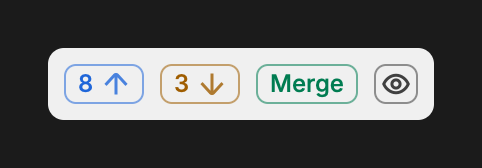
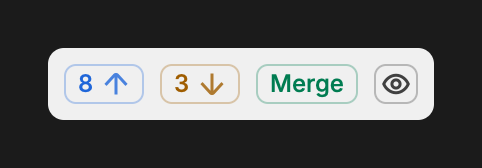
fix(but-ui): keep a dark page's selection edges as they were
A dark page's selected row is filled light, where the edges read fine
at their plain-row strength. Keep the stronger edges for a light page's
dark fill only: coloured outlines at 30% and outline-inverted at 26% on
a light fill, in but-ui-react's Button and but-ui-gpui's theme alike.
The dark shots of the button stories are retaken.

diff --git a/packages/but-ui-react/src/Button.module.css b/packages/but-ui-react/src/Button.module.css
@@ -132,14 +132,18 @@
 	--button-hover-bg: var(--but-hover);
 }
 
-/* The edge is stronger than outline's 26%: a faint light line on the dark fill reads fainter
-   than the same dark line on a light one. */
+/* On a light page's dark inverse the edge is stronger than outline's 26%: a faint light line on
+   a dark fill reads fainter than the same dark line on a light one. A dark page keeps 26%. */
 :where(.outline-inverted) {
 	--button-edge: 1px;
 	--button-border: 1px solid color-mix(in srgb, var(--but-inverse-foreground) 45%, transparent);
 	--button-bg: transparent;
 	--button-fg: var(--but-inverse-foreground);
 	--button-hover-bg: var(--but-inverse-ghost-hover);
+
+	@container style(--scheme-dark: true) {
+		--button-border: 1px solid color-mix(in srgb, var(--but-inverse-foreground) 26%, transparent);
+	}
 }
 
 :where(.danger) {
@@ -172,13 +176,15 @@
 	--button-hover-icon-opacity: 0.9;
 
 	/* Inside a selected row on the solid fill, the opposite scheme keeps the colour: every
-	   light-dark() colour resolves to its inverted value, as Badge and MetaCount do. The edge
-	   goes to 55% there, as outline-inverted's is stronger than outline's. */
+	   light-dark() colour resolves to its inverted value, as Badge and MetaCount do. On a light
+	   page's dark fill the edge goes to 55%, as outline-inverted's is stronger there; a dark
+	   page's light fill keeps 30%. */
 	@container style(--selection-inverted: true) {
 		--button-border: 1px solid color-mix(in srgb, var(--button-fg) 55%, transparent);
 		color-scheme: dark;
 
 		@container style(--scheme-dark: true) {
+			--button-border: 1px solid color-mix(in srgb, var(--button-fg) 30%, transparent);
 			color-scheme: light;
 		}
 	}
@@ -188,13 +194,13 @@
 	--button-fg: var(--but-info-text);
 	--button-hover-bg: var(--but-info-outline-hover);
 
-	/* Blue reads darker than amber and green on the dark solid fill: its edge there is 70%, which
-	   matches theirs at 55%. On the light fill of a dark page all three match at 55%. */
+	/* Blue reads darker than amber and green on a light page's dark solid fill: its edge there is
+	   70%, which matches theirs at 55%. A dark page's light fill keeps 30%. */
 	@container style(--selection-inverted: true) {
 		--button-border: 1px solid color-mix(in srgb, var(--button-fg) 70%, transparent);
 
 		@container style(--scheme-dark: true) {
-			--button-border: 1px solid color-mix(in srgb, var(--button-fg) 55%, transparent);
+			--button-border: 1px solid color-mix(in srgb, var(--button-fg) 30%, transparent);
 		}
 	}
 }

diff --git a/crates/but-ui-gpui/src/theme.rs b/crates/but-ui-gpui/src/theme.rs
@@ -75,9 +75,9 @@ pub struct Derived {
     pub muted_hover: Hsla,
     /// `primary` with 14% of `foreground` in it: a checked box or radio under the pointer.
     pub primary_checked_hover: Hsla,
-    /// `inverse-foreground` at 45%: an outline's edge on a solid selection, as React's
-    /// `outline-inverted`. Stronger than `input`'s 26%, as a faint light edge on a dark fill
-    /// reads fainter than the same dark edge on a light one.
+    /// `inverse-foreground` at 45% on a dark solid selection and 26% on a light one: an
+    /// outline's edge there, as React's `outline-inverted`. Stronger than `input`'s 26% on the
+    /// dark fill only, as a faint light edge on it reads fainter than a dark edge on a light one.
     pub inverse_input: Hsla,
     /// `inverse-muted-foreground` at 40%: a tree's guide on a solid selection, as
     /// but-ui-react's `--guide-color` there.
@@ -164,7 +164,10 @@ impl Derived {
         Derived {
             muted_hover: color(mix(rgb_hex(c.muted), rgb_hex(c.muted_nested), 0.5)),
             primary_checked_hover: primary_checked_hover(c),
-            inverse_input: c.inverse_foreground.opacity(0.45),
+            inverse_input: c.inverse_foreground.opacity(match c.inverse.l < 0.5 {
+                true => 0.45,
+                false => 0.26,
+            }),
             inverse_guide: c.inverse_muted_foreground.opacity(0.4),
             joined_line_on_solid: c.inverse_foreground.opacity(0.08),
             inverse_success_text: on_inverse(c.success_text),
@@ -905,9 +908,9 @@ impl Theme {
     }
 
     /// A coloured outline button's text, edge and hover on a solid selection: its hue in the
-    /// other scheme's values, as but-ui-react's Button flips its scheme there, with the edge at
-    /// 55% rather than 30%, as `inverse_input` is stronger than `input`. Blue reads darker than
-    /// amber and green on a dark fill, so there its edge is 70%, which matches theirs at 55%.
+    /// other scheme's values, as but-ui-react's Button flips its scheme there. On a dark fill
+    /// the edge is 55% rather than 30%, as `inverse_input` is stronger there, and blue's 70%,
+    /// as it reads darker than amber and green and so matches theirs. A light fill keeps 30%.
     /// Only info, success and warning are coloured; anything else takes the inverted ghost's.
     pub fn outline_on_solid(&self, hue: Option<Hue>) -> (Hsla, Hsla, Hsla) {
         let flip = &self.on_solid;
@@ -917,9 +920,10 @@ impl Theme {
             Some(Hue::Safe) => (flip.success_text, flip.success_outline_hover),
             _ => (self.inverse_foreground, self.inverse_ghost_hover),
         };
-        let edge = match hue {
-            Some(Hue::Blue) if self.inverse.l < 0.5 => 0.7,
-            _ => 0.55,
+        let edge = match (hue, self.inverse.l < 0.5) {
+            (_, false) => 0.3,
+            (Some(Hue::Blue), true) => 0.7,
+            (_, true) => 0.55,
         };
         (text, text.opacity(edge), hover)
     }

diff --git a/packages/but-ui/design/components/buttons.md b/packages/but-ui/design/components/buttons.md
@@ -20,11 +20,12 @@ to a quiet one.
 - **`info`, `warning`, `success`** — `outline` in a colour: the colour's text,
   an edge of it at 30%, and under the pointer its faintest see-through tint
   (`--but-*-outline-hover`). For the next step of a coloured count (see
-  [Meta lines](meta-lines.md)). On a selected row's solid fill the edge goes
-  to 55%, as `outline-inverted`'s goes to 45% from `outline`'s 26%: a faint
-  light line on a dark fill reads fainter than the same dark line on a light
-  one. Blue's goes to 70% on the dark fill, where it reads darker than amber
-  and green, so that it matches theirs.
+  [Meta lines](meta-lines.md)). On a light page's selected row, whose solid
+  fill is dark, the edge goes to 55%, as `outline-inverted`'s goes to 45% from
+  `outline`'s 26%: a faint light line on a dark fill reads fainter than the
+  same dark line on a light one. Blue's goes to 70% there, as it reads darker
+  than amber and green, so that it matches theirs. A dark page's selection is
+  light and keeps 30% and 26%.
 
 **A coloured outline is a count's next step, and only that.** Push beside an
 unpushed count is `info`, Update beside a behind count is `warning`, Merge once
